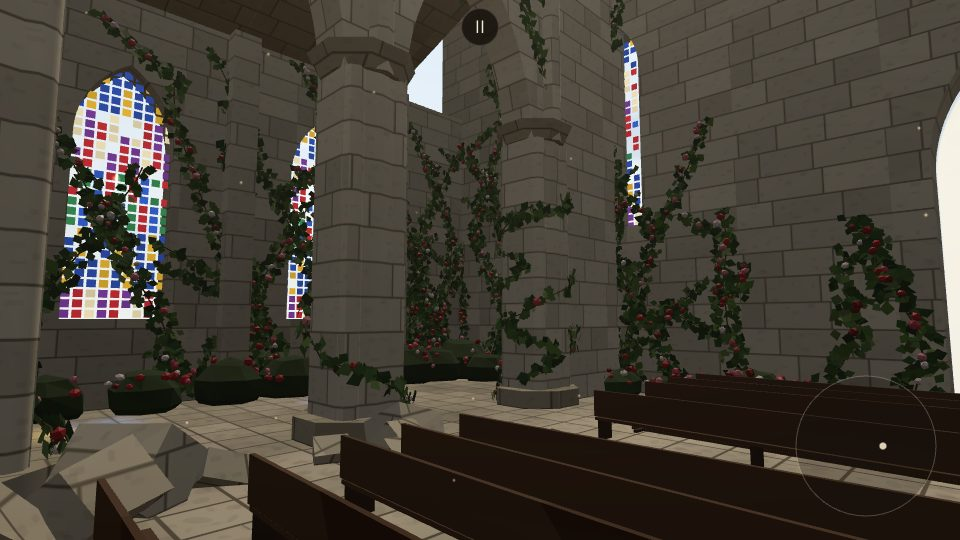
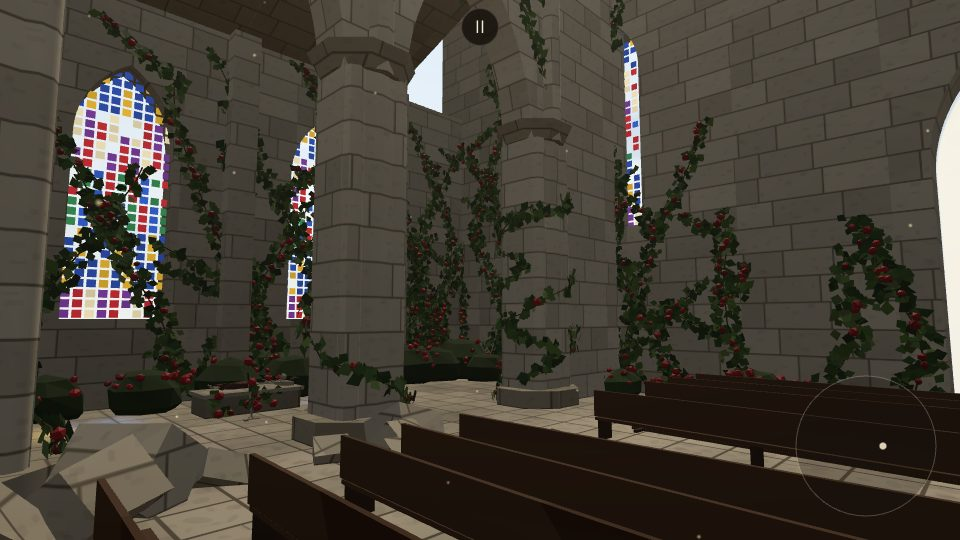
대성당: 장미를 붉은색 하나로, 북쪽 옆 복도에 오래 안치된 유해와 판석에 꽂힌 롱소드
그림만 수정 (stage_cathedral.js). main.js 변경 없음. 콘솔 에러 0.

Claude-Session: https://claude.ai/code/session_01HNkUuYHag8VSg6xpgbkGVR

diff --git a/src/stage_cathedral.js b/src/stage_cathedral.js
@@ -10,6 +10,7 @@
 import * as THREE from 'three';
 import { ARENA } from './config.js';
 import { rng, h3, Kit, box, cyl, limb, canvasTex } from './stage_kit.js';
+import { weaponEnv } from './weapon_looks.js';
 
 const C = {
   stone: 0xcfc7b6, // 석회암 (질감에 곱해짐)
@@ -621,7 +622,7 @@ export function buildCathedral(scene, lights = {}) {
   {
     const vr = rng(404);
     const LEAF = [0x2f4a24, 0x3a5a2a, 0x46662f, 0x2a4020, 0x557236];
-    const ROSE = [0x9e1624, 0xb81e2e, 0xc8455a, 0xd9788a, 0x7a0e1a, 0xead2d2];
+    const ROSE = [0x9e1624, 0xb01a2a, 0x8a1020, 0xa3172a, 0x7a0e1a]; // 붉은 장미 한 가지 (짙기만 조금씩 다르게)
     const leaves = [];
     const roses = [];
     const Z = new THREE.Vector3(0, 0, 1);
@@ -730,6 +731,83 @@ export function buildCathedral(scene, lights = {}) {
         }
       }
     }
+    // ── 오래 안치된 유해와 바닥에 꽂힌 칼 (장미 구석, 북쪽 옆 복도) ──
+    //  낮은 돌 관대 위에 누운 백골: 두 손을 가슴에 모았고, 바랜 천이 다리를 덮었다. 머리맡에는 녹슨 투구.
+    //  관대 앞 판석 틈에는 장식 없는 롱소드 한 자루가 꽂힌 채 녹슬었고, 장미 덩굴이 코등이를 감았다.
+    {
+      const tx = -22.75; // 가운데 결투 자리에서 아케이드 아치 사이로 보이는 칸
+      const tz = AZ - 4.2;
+      const bone = 0xd6cbb0;
+      const bh = 0.42; // 관대 높이 (낮게: 누운 유해가 보이게)
+      K.put('stone', box(2.6, bh - 0.1, 1.15), C.stoneDark, [tx, (bh - 0.1) / 2, tz], [0, 0, 0], 1, { ...st, rough: 0.02 });
+      K.put('stone', box(2.75, 0.1, 1.3), C.stone, [tx, bh - 0.05, tz], [0, 0, 0], 1, { ...st, rough: 0.015 });
+      K.put('stone', box(0.4, 0.12, 0.5), C.stone, [tx - 1.05, bh + 0.06, tz], [0, 0, 0.08], 1, st); // 돌 베개
+      const y = bh + 0.07;
+      const B = (g, pos, rot = [0, 0, 0], sc = 1) => K.put('bone', g, bone, pos, rot, sc, { vary: 0.08, noise: 0.12 });
+      // 머리 (+x 가 발쪽, 머리는 −x)
+      const hx = tx - 1.02;
+      B(new THREE.SphereGeometry(0.125, 10, 8), [hx, y + 0.17, tz], [0, 0, 0], [1, 1.05, 0.9]);
+      B(box(0.09, 0.05, 0.08), [hx + 0.07, y + 0.1, tz], [0, 0, -0.5]); // 턱
+      for (const s of [-1, 1]) K.put('dark', new THREE.SphereGeometry(0.024, 6, 4), 0x100c0a, [hx + 0.06, y + 0.24, tz + s * 0.035]); // 눈구멍
+      K.put('dark', box(0.02, 0.025, 0.02), 0x100c0a, [hx + 0.09, y + 0.2, tz]); // 코구멍
+      // 척추·갈비뼈·골반
+      for (let i = 0; i < 9; i++) B(box(0.065, 0.06, 0.07), [hx + 0.18 + i * 0.065, y + 0.04, tz]);
+      for (let i = 0; i < 6; i++) {
+        const x = hx + 0.26 + i * 0.07;
+        const w = 0.13 - Math.abs(i - 2) * 0.012;
+        B(new THREE.TorusGeometry(w * 1.15, 0.017, 4, 10, Math.PI), [x, y + 0.03, tz], [Math.PI / 2, Math.PI / 2, 0], [1, 0.75, 1]);
+      }
+      B(new THREE.TorusGeometry(0.1, 0.03, 5, 10), [hx + 0.86, y + 0.04, tz], [Math.PI / 2, 0, 0], [1, 1.3, 1]); // 골반
+      // 팔: 가슴 위로 모은 두 손
+      for (const s of [-1, 1]) {
+        B(cyl(0.028, 0.028, 0.3, 5), [hx + 0.33, y + 0.05, tz + s * 0.17], [0, 0, Math.PI / 2]);
+        limb(K, 'bone', [hx + 0.48, y + 0.05, tz + s * 0.17], [hx + 0.55, y + 0.12, tz + s * 0.04], 0.025, 0.022, bone, {}, 5);
+        for (let f = 0; f < 4; f++) B(box(0.05, 0.012, 0.012), [hx + 0.57 + f * 0.012, y + 0.14, tz + s * 0.01 + (f - 1.5) * 0.018]);
+      }
+      // 바랜 천이 다리를 덮었다 (다리뼈는 발목 아래만 보인다)
+      K.put('cloth', box(0.95, 0.12, 0.5, 6, 1, 3), 0x5a3a36, [hx + 1.35, y + 0.05, tz], [0, 0, 0], 1, { rough: 0.06, noise: 0.2 });
+      for (const s of [-1, 1]) {
+        B(cyl(0.03, 0.026, 0.22, 5), [hx + 1.9, y + 0.03, tz + s * 0.09], [0, 0, Math.PI / 2]);
+        B(box(0.12, 0.03, 0.06), [hx + 2.03, y + 0.06, tz + s * 0.09], [0, 0, 0.9]); // 발뼈
+      }
+      // 머리맡의 녹슨 투구
+      K.put('rust', new THREE.SphereGeometry(0.17, 10, 6, 0, Math.PI * 2, 0, Math.PI / 2), 0x6a4a36, [tx - 1.55, bh + 0.02, tz + 0.35], [0.9, 0.4, 0.2], 1, { vary: 0.1, noise: 0.25 });
+      // 관대 둘레로 기어오른 장미
+      for (let k = 0; k < 6; k++) {
+        const along = (k < 3 ? -1 : 1) * (0.95 + vr() * 0.3); // 관대 양 끝에만
+        const p = new THREE.Vector3(tx + along, 0.1 + vr() * (bh - 0.1), tz - 0.62);
+        leaf(p.clone(), toRoom, 0.8);
+        leaf(p.clone().add(new THREE.Vector3(0.1, 0.05, 0)), toRoom, 0.8);
+        if (vr() < 0.5) rose(p.clone().addScaledVector(toRoom, 0.07), 0.85);
+      }
+      // 판석 틈에 꽂힌 칼: 장식 없는 롱소드, 조금 기울었다
+      const sx = tx + 0.5;
+      const sz = tz - 1.9;
+      K.push([sx, 0, sz], 0.35);
+      const tilt = [0.1, 0, -0.07];
+      const steel = 0x8a857c;
+      const at = (h) => [Math.sin(-tilt[2]) * h, Math.cos(tilt[0]) * h, Math.sin(tilt[0]) * h];
+      K.put('sword', box(0.065, 1.02, 0.016), steel, at(0.51), tilt, 1, { vary: 0.04, noise: 0.18 }); // 드러난 칼날
+      K.put('sword', box(0.024, 1.0, 0.018), 0x6e6960, at(0.51), tilt, 1, { vary: 0 }); // 피 홈
+      K.put('sword', box(0.36, 0.045, 0.045), 0x5a5048, at(1.04), tilt, 1, { vary: 0.05 }); // 코등이
+      K.put('rust', cyl(0.024, 0.027, 0.28, 7), 0x3a2a20, at(1.2), tilt); // 손잡이 (가죽이 삭았다)
+      K.put('sword', new THREE.SphereGeometry(0.048, 8, 6), 0x5a5048, at(1.37), tilt); // 폼멜
+      K.pop();
+      // 칼이 박힌 자리의 깨진 판석 조각
+      for (let k = 0; k < 6; k++) {
+        const a = vr() * 6.28;
+        const d = 0.08 + vr() * 0.25;
+        K.put('stone', box(0.12 + vr() * 0.1, 0.03, 0.1), C.floor, [sx + Math.cos(a) * d, 0.015, sz + Math.sin(a) * d], [vr() * 0.3, vr() * 3, 0], 1, { rough: 0.02 });
+      }
+      // 코등이를 감은 장미 덩굴
+      for (let k = 0; k < 4; k++) {
+        const a = k * 1.3;
+        const p = new THREE.Vector3(sx + Math.cos(a) * 0.07, 0.08 + k * 0.12, sz + Math.sin(a) * 0.07);
+        leaf(p, new THREE.Vector3(Math.cos(a), 0.3, Math.sin(a)).normalize(), 0.9);
+      }
+      rose(new THREE.Vector3(sx + 0.06, 0.4, sz - 0.05), 0.9); // 칼날 밑동에 한 송이
+    }
+
     // 인스턴싱
     const leafGeo = new THREE.BufferGeometry();
     leafGeo.setAttribute('position', new THREE.Float32BufferAttribute([0, 0.1, 0, -0.065, 0, 0, 0, -0.07, 0, 0.065, 0, 0], 3));
@@ -765,6 +843,11 @@ export function buildCathedral(scene, lights = {}) {
     K.mesh('iron', std({ roughness: 0.5, metalness: 0.6 })),
     K.mesh('ivy', std({ roughness: 1, flatShading: true }), { light: shade }),
     K.mesh('vine', std({ roughness: 1 }), { light: shade }),
+    K.mesh('bone', std({ roughness: 0.85 }), { light: shade }),
+    K.mesh('cloth', std({ roughness: 1, flatShading: true }), { light: shade }),
+    K.mesh('dark', std({ roughness: 1 })),
+    K.mesh('rust', std({ roughness: 0.9, metalness: 0.3 }), { light: shade }),
+    K.mesh('sword', std({ roughness: 0.45, metalness: 0.85, envMap: weaponEnv(), envMapIntensity: 0.9 }), { light: shade }),
     K.mesh('candle', std({ roughness: 0.6, emissive: 0x3a2a10, emissiveIntensity: 0.6 })),
     K.mesh('glow', new THREE.MeshBasicMaterial({ vertexColors: true, fog: false })),
   ];

diff --git a/docs/stages.md b/docs/stages.md
@@ -103,7 +103,13 @@ arena.js와 같이 `{ update, excite, sunOffset }`을 반환한다.
   - 구석에서 멀어질수록 성기다가 x ≈ −16에서 끊긴다.
   - 두 벽을 창까지 가로질러 타고 오르고, 벽 밑에는 장미 덤불이 겹겹이 있다. 그 칸의 무너진 윗선에서는 덩굴이 늘어진다.
   - 구석 쪽 기둥의 덩굴은 도는 빠르기·오르는 빠르기·높이가 들쭉날쭉하고, 가다가 방향을 틀기도 한다. 가끔 잎이 뭉쳐 있다.
-  - 줄기는 가는 관이고, 잎(마름모)과 장미(깎은 꽃송이)는 인스턴싱으로 그린다. 장미는 붉은색·진홍·분홍·흰색이다.
+  - 줄기는 가는 관이고, 잎(마름모)과 장미(깎은 꽃송이)는 인스턴싱으로 그린다. 장미는 붉은색 한 가지로, 짙기만 조금씩 다르다.
+- **오래 안치된 유해와 바닥에 꽂힌 칼** (마르그레테 슈바르츠의 설정에서 착안):
+  - 장미 구석 가까운 북쪽 옆 복도 한 칸에 낮은 돌 관대를 두었다.
+  - 관대 위에는 백골이 누워 있다. 두 손을 가슴에 모았고, 바랜 천이 다리를 덮었으며, 머리맡에 녹슨 투구가 있다.
+  - 관대 앞 깨진 판석 틈에는 장식 없는 롱소드가 조금 기운 채 꽂혀 녹슬었고, 밑동에 붉은 장미 한 송이가 감겨 있다.
+  - 관대 양 끝에도 장미가 기어오른다.
+  - 누구의 유해인지는 정하지 않았다. 설정에서 마르그레테는 남편 콘라트의 칼을 지금도 들고 다니므로, 꽂힌 칼은 콘라트의 칼이 아니다.
 - **바닥**: 판석과 이끼 얼룩, 돌무더기, 쓰러진 기둥 토막, 떨어진 갈비뼈 토막. 서쪽 신랑에는 줄지은 신도석이 있고, 몇 개는 넘어졌다. 벽을 타고 오른 담쟁이와 판석 틈 풀도 있다.
 - **빛**:
   - 무너진 천장으로 쏟아지는 빛줄기 다섯 개는 더하기 섞기 반투명 기둥이다. 바닥에 빛 웅덩이가 지고, 복도 창 아래에는 색 빛 얼룩이 떨어진다.
@@ -119,6 +125,8 @@ arena.js와 같이 `{ update, excite, sunOffset }`을 반환한다.
 - [위에서](stages/cathedral_high.jpg)
 - [가운데에서 본 북쪽](stages/cathedral_roses.jpg)
 - [북서쪽 구석](stages/cathedral_corner.jpg)
+- [유해와 꽂힌 칼](stages/cathedral_tomb.jpg)
+- [꽂힌 칼](stages/cathedral_sword.jpg)
 - [기둥 덩굴](stages/cathedral_pier.jpg)
 
 ## 어두운 성의 큰 홀 (`darkhall`)
@@ -163,7 +171,7 @@ arena.js와 같이 `{ update, excite, sunOffset }`을 반환한다.
 | 포세이돈(기본) | 12 | 44,100 |
 | 산사 | 21 | 130,234 |
 | 성 안뜰 | 19 | 44,122 |
-| 대성당 | 17 | 99,479 (덩굴·장미 포함) |
+| 대성당 | 22 | 101,245 (덩굴·장미·유해 포함) |
 | 어두운 홀 | 19 | 39,402 |
 
 참고로 전체 장면(캐릭터·그림자 포함)은 한 장면에서 포세이돈 약 98,000, 산사 약 16만이었다.
